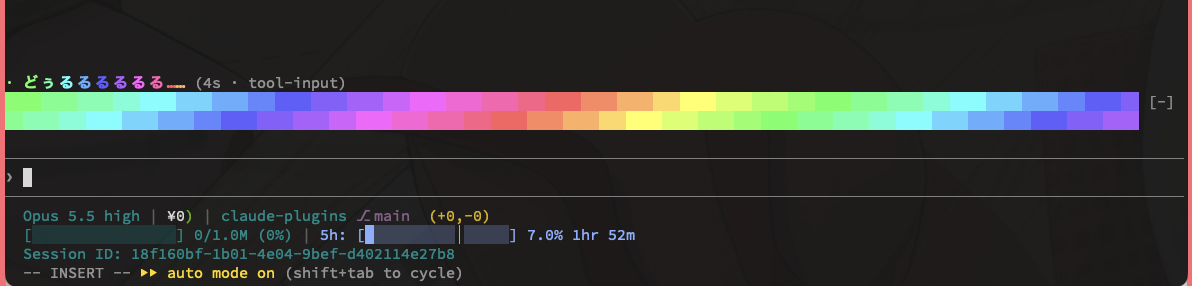
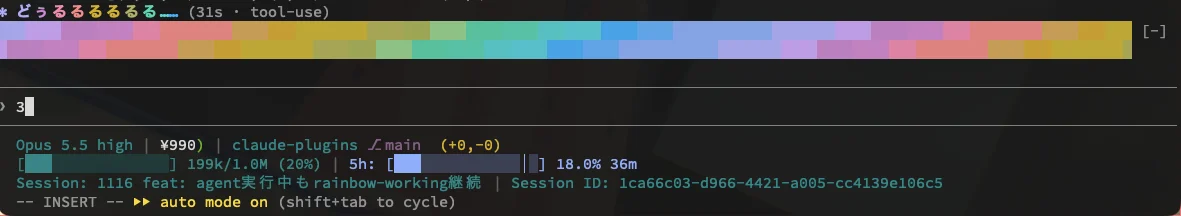
feat(rainbow-working): draw the rainbow in OKLCH with two-tone shading
- Build the rainbow in OKLCH (lightness 0.70, chroma 0.15) instead of
  HSL, spacing the hue by nine named colors so blue gets a wider share
- Precompute the 24-step color tables at module load
- Draw the working band with ▓ in two tones: the rainbow color as
  foreground and a darker shade (lightness 0.47) as background
- Draw the background-agents-only band as ░ with no background color
  instead of lowering the lightness, which flattened the gradient
- Use the same palette for the spinner word and glyph
- Replace the README screenshot and bump version to 0.3.0

diff --git a/plugins/rainbow-working/hooks/register.tsx b/plugins/rainbow-working/hooks/register.tsx
@@ -10,68 +10,107 @@ const BAND_HUE_PER_CELL = 4
 const WORD_HUE_PER_CHAR = 30
 // 色相を 15° 刻みに丸めて同色の連続セルを 1 つの Text にまとめ、要素数を列数の 1/4 程度に減らす
 const HUE_QUANTUM = 15
+const HUE_STEP_COUNT = 360 / HUE_QUANTUM
 // 2 行目を左にずらし、斜めに流れる波に見せる
 const SECOND_ROW_OFFSET_CELLS = 6
-const BLOCK = '█'
 const GLYPH_FRAMES = ['·', '✢', '✳', '✶', '✻', '✽', '✻', '✶', '✳', '✢']
 const ELLIPSIS = '…'
-// 明度 55%: 50% だと青・紫が暗い背景に沈むため少し持ち上げる
-const WORKING_LIGHTNESS = 0.55
-// 裏のエージェントだけが動いている間は暗くして、メインが入力待ちであることを見分けられるようにする。
-// 0.3 では明るすぎて区別しにくかったため、サンプルを見比べて 0.13 にした
-const BACKGROUND_LIGHTNESS = 0.13
 // turn.complete を取りこぼしても 15 秒以内に止める。$.agent.list() は軽いため短めにしている
 const AGENT_CHECK_MS = 15_000
 // waiting は自分の裏の作業や計画の承認を待っている状態で、エージェントとしてはまだ終わっていない
 const ALIVE_AGENT_STATUSES: ReadonlySet<AgentStatus> = new Set(['pending', 'running', 'waiting'])
 
-function hueToHex(hueDeg: number, lightness = WORKING_LIGHTNESS): string {
-  const saturation = 1
-  const chroma = (1 - Math.abs(2 * lightness - 1)) * saturation
-  const h = (((hueDeg % 360) + 360) % 360) / 60
-  const x = chroma * (1 - Math.abs((h % 2) - 1))
-  const [r, g, b] =
-    h < 1 ? [chroma, x, 0]
-    : h < 2 ? [x, chroma, 0]
-    : h < 3 ? [0, chroma, x]
-    : h < 4 ? [0, x, chroma]
-    : h < 5 ? [x, 0, chroma]
-    : [chroma, 0, x]
-  const m = lightness - chroma / 2
-  const toHex = (v: number) =>
-    Math.round((v + m) * 255).toString(16).padStart(2, '0')
+// OKLCH の色相角を等間隔に回すと青の幅が狭く見えるため、基準色ごとに同じ幅を割り当てる。
+// 赤・オレンジ・黄・緑・シアン・空色・青・藍・マゼンタの OKLCH 色相角
+const HUE_ANCHORS_DEG = [29, 60, 105, 142, 195, 235, 264, 285, 328]
 
-  return `#${toHex(r)}${toHex(g)}${toHex(b)}`
+function rainbowHueDeg(cyclePosition: number): number {
+  const scaled = cyclePosition * HUE_ANCHORS_DEG.length
+  const index = Math.floor(scaled)
+  const start = HUE_ANCHORS_DEG[index]!
+  const next = HUE_ANCHORS_DEG[(index + 1) % HUE_ANCHORS_DEG.length]!
+  const end = next > start ? next : next + 360
+
+  return start + (end - start) * (scaled - index)
 }
 
-function quantizedHue(position: number, huePerPosition: number, tick: number): number {
+function linearToSrgb(value: number): number {
+  // sRGB で表せない色は各チャンネルを切り詰める
+  const clamped = Math.min(1, Math.max(0, value))
+  return clamped <= 0.0031308 ? 12.92 * clamped : 1.055 * clamped ** (1 / 2.4) - 0.055
+}
+
+// 係数は OKLab の定義 (Björn Ottosson) のもの
+function oklchToHex(lightness: number, chroma: number, hueDeg: number): string {
+  const hueRad = (hueDeg * Math.PI) / 180
+  const a = chroma * Math.cos(hueRad)
+  const b = chroma * Math.sin(hueRad)
+  const l = (lightness + 0.3963377774 * a + 0.2158037573 * b) ** 3
+  const m = (lightness - 0.1055613458 * a - 0.0638541728 * b) ** 3
+  const s = (lightness - 0.0894841775 * a - 1.291485548 * b) ** 3
+  const linearRgb = [
+    4.0767416621 * l - 3.3077115913 * m + 0.2309699292 * s,
+    -1.2684380046 * l + 2.6097574011 * m - 0.3413193965 * s,
+    -0.0041960863 * l - 0.7034186147 * m + 1.707614701 * s,
+  ]
+  const toHex = (v: number) => Math.round(linearToSrgb(v) * 255).toString(16).padStart(2, '0')
+
+  return `#${linearRgb.map(toHex).join('')}`
+}
+
+// 描画のたびに OKLCH を変換しないよう、15° 刻みの 24 色を読み込み時に作っておく
+function buildRainbowColors(lightness: number, chroma: number): readonly string[] {
+  return Array.from({ length: HUE_STEP_COUNT }, (_, step) =>
+    oklchToHex(lightness, chroma, rainbowHueDeg(step / HUE_STEP_COUNT)),
+  )
+}
+
+// 明度 0.70・彩度 0.15: 明度 0.75 では青が水色寄りに見えたため少し下げ、彩度を上げて鮮やかさを保つ
+const RAINBOW_COLORS = buildRainbowColors(0.7, 0.15)
+// 網掛けの隙間を埋める色。文字色の 2/3 ほどの明るさにして、粒が見える程度の差を残す
+const RAINBOW_SHADE_COLORS = buildRainbowColors(0.47, 0.11)
+
+type RainbowColors = { colors: readonly string[]; backgroundColors?: readonly string[] }
+type BandStyle = RainbowColors & { glyph: string }
+
+// 背景色を付けないと網掛けの隙間からターミナルの地の色が透けて暗くなるため、同系色で埋めて 2 色を重ねる
+const WORKING_BAND: BandStyle = {
+  glyph: '▓',
+  colors: RAINBOW_COLORS,
+  backgroundColors: RAINBOW_SHADE_COLORS,
+}
+// 裏のエージェントだけの間は、地の色を透かして暗く見せる。明度を下げる方式は虹の色の差が潰れたため採らない
+const BACKGROUND_BAND: BandStyle = { glyph: '░', colors: RAINBOW_COLORS }
+const SPINNER_COLORS: RainbowColors = { colors: RAINBOW_COLORS }
+
+function quantizedHueStep(position: number, huePerPosition: number, tick: number): number {
   const hue = position * huePerPosition - tick * HUE_PER_TICK
-  return Math.floor((((hue % 360) + 360) % 360) / HUE_QUANTUM) * HUE_QUANTUM
+  return Math.floor((((hue % 360) + 360) % 360) / HUE_QUANTUM)
 }
 
-type Run = { text: string; color: string }
+type Run = { text: string; color: string; backgroundColor?: string }
 
 function rainbowRuns(
   text: string,
   tick: number,
   huePerPosition: number,
+  { colors, backgroundColors }: RainbowColors,
   positionOffset = 0,
-  lightness = WORKING_LIGHTNESS,
 ): Run[] {
   const runs: Run[] = []
-  let currentHue: number | undefined
+  let currentStep: number | undefined
 
   Array.from(text).forEach((char, i) => {
-    const hue = quantizedHue(i + positionOffset, huePerPosition, tick)
+    const step = quantizedHueStep(i + positionOffset, huePerPosition, tick)
     const last = runs[runs.length - 1]
 
-    if (last !== undefined && hue === currentHue) {
+    if (last !== undefined && step === currentStep) {
       last.text += char
       return
     }
 
-    currentHue = hue
-    runs.push({ text: char, color: hueToHex(hue, lightness) })
+    currentStep = step
+    runs.push({ text: char, color: colors[step]!, backgroundColor: backgroundColors?.[step] })
   })
 
   return runs
@@ -197,13 +236,13 @@ export const register: Register = on => {
       return next(e)
     }
 
-    const lightness = e.props.isWorking ? WORKING_LIGHTNESS : BACKGROUND_LIGHTNESS
+    const band = e.props.isWorking ? WORKING_BAND : BACKGROUND_BAND
     const { Box, Text } = $.ui.resolve(e)
-    const line = BLOCK.repeat(e.props.bodyColumns)
+    const line = band.glyph.repeat(e.props.bodyColumns)
     const drawRow = (offset: number) => (
       <Text>
-        {rainbowRuns(line, anim.tick, BAND_HUE_PER_CELL, offset, lightness).map(run => (
-          <Text color={run.color}>{run.text}</Text>
+        {rainbowRuns(line, anim.tick, BAND_HUE_PER_CELL, band, offset).map(run => (
+          <Text color={run.color} backgroundColor={run.backgroundColor}>{run.text}</Text>
         ))}
       </Text>
     )
@@ -229,9 +268,9 @@ export const register: Register = on => {
 
     return (
       <Text>
-        <Text color={hueToHex(quantizedHue(0, 0, anim.tick))}>{glyph} </Text>
+        <Text color={RAINBOW_COLORS[quantizedHueStep(0, 0, anim.tick)]}>{glyph} </Text>
         <Text bold>
-          {rainbowRuns(`${label}${suffix}`, anim.tick, WORD_HUE_PER_CHAR).map(run => (
+          {rainbowRuns(`${label}${suffix}`, anim.tick, WORD_HUE_PER_CHAR, SPINNER_COLORS).map(run => (
             <Text color={run.color}>{run.text}</Text>
           ))}
         </Text>

diff --git a/plugins/rainbow-working/README.md b/plugins/rainbow-working/README.md
@@ -6,10 +6,12 @@ A Claude Code mod that makes it obvious from across the room that Claude is work
 
 While a turn is running in the terminal:
 
-- a two-row rainbow band flows above the prompt input
+- a two-row rainbow band flows above the prompt input, drawn with `▓` in two tones of the same color (foreground and a darker background)
 - the spinner line is redrawn with its word in rainbow colors, followed by the elapsed time and the current mode (`thinking`, `tool-use`, ...)
 
-When Claude is back at the prompt but background agents (subagents, teammates) are still running, the band keeps flowing in darker colors. Every 15 seconds the mod checks the session's agent list; if none of them is running, it clears the band, so it stops within 15 seconds even if it missed an agent's end. Workflow agents are not in that list, so the darker band for a Workflow running alone in the background stops within 15 seconds and comes back when its next agent starts.
+The rainbow is built in the OKLCH color space, so its colors look evenly bright, and the hues are spaced by named colors (red, orange, yellow, green, cyan, sky blue, blue, indigo, magenta) rather than by equal angles, which gives blue a wider share of the band.
+
+When Claude is back at the prompt but background agents (subagents, teammates) are still running, the band keeps flowing as a lighter `░` pattern with no background color, so it looks darker. Every 15 seconds the mod checks the session's agent list; if none of them is running, it clears the band, so it stops within 15 seconds even if it missed an agent's end. Workflow agents are not in that list, so the `░` band for a Workflow running alone in the background stops within 15 seconds and comes back when its next agent starts.
 
 When Claude is waiting for your input and no agent is running, nothing extra is drawn and the animation timers are stopped.
 
